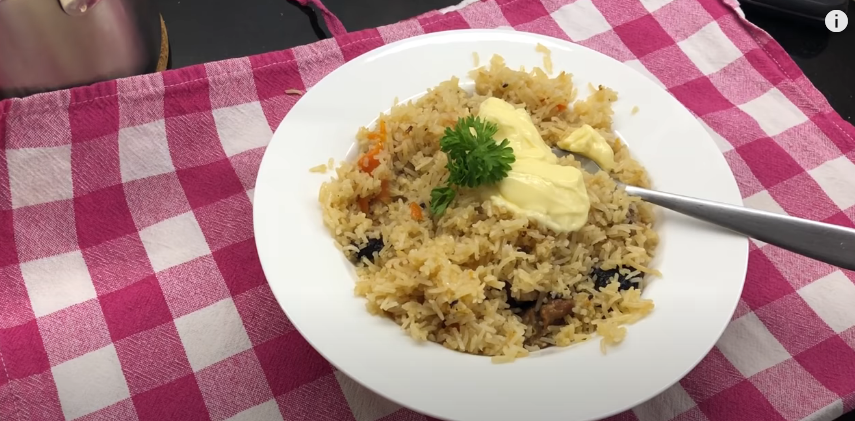
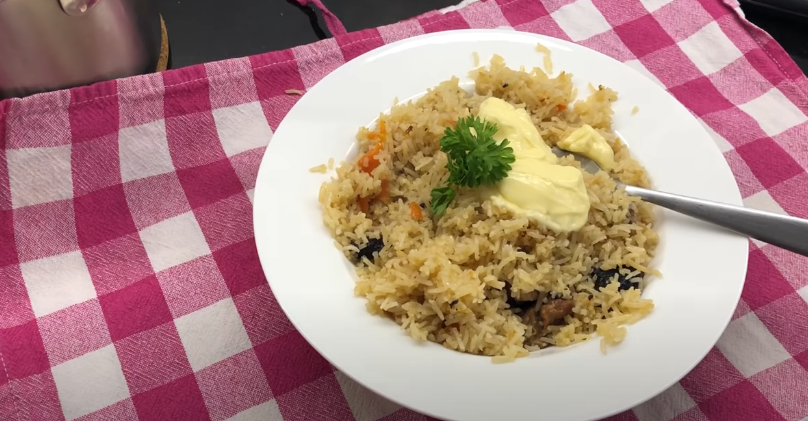
Crop plov.png

diff --git a/recipes/plov.html b/recipes/plov.html
@@ -9,7 +9,7 @@
 
 <body>
   <h1>Plov</h1>
-  <img src="plov.png" alt="An bowl of plov">
+  <img src="plov.png" alt="A bowl of plov">
 </body>
 
 </html>
